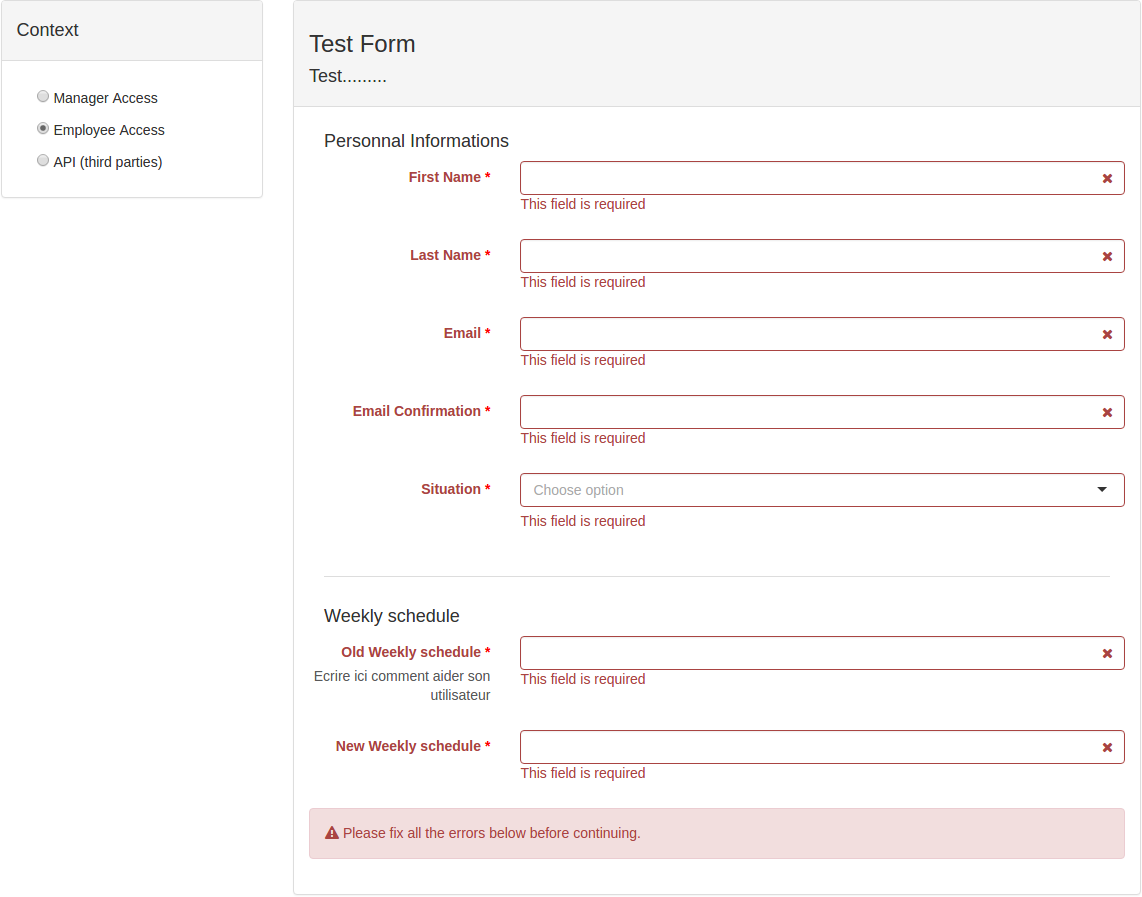
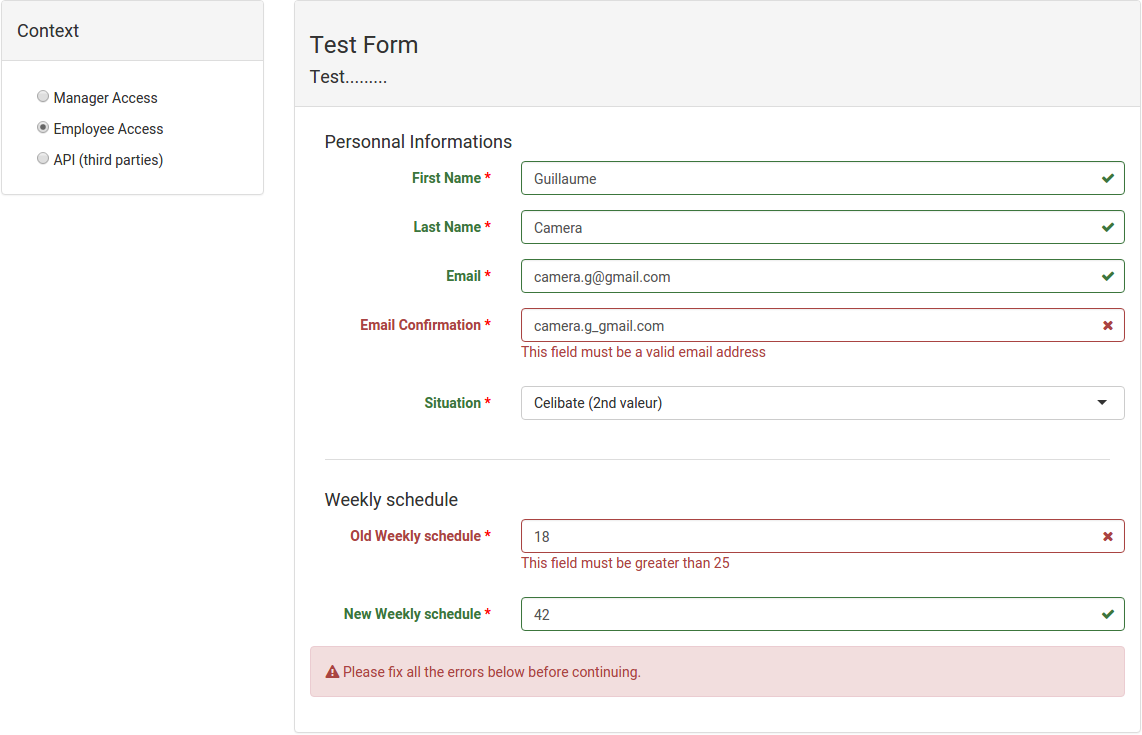
Update slides

diff --git a/src/css/style.scss b/src/css/style.scss
@@ -256,3 +256,19 @@ img[alt=slide-api] {
   height: 400px;
   padding-left: 310px;
 }
+
+img[alt=ui] {
+  position: absolute;
+  top: 150px;
+  max-height: 520px;
+  max-width: 800px;
+  left: 300px;
+}
+
+img[alt=ui2] {
+  position: absolute;
+  top: 200px;
+  max-height: 520px;
+  max-width: 800px;
+  left: 200px;
+}

diff --git a/src/slides.md b/src/slides.md
@@ -382,6 +382,14 @@ template: slide
 # Formidable-UI
 ## Création
 
+![ui](img/ui-builder.png)
+
+---
+template: slide
+
+# Formidable-UI
+## Création
+
 - ### Barre d'outils (champs)
 
 ![slide-tools](img/slide_tools.png)
@@ -480,6 +488,14 @@ template: slide
 # Formidable-UI
 ## Validations Globales (Presets)
 
+![ui2](img/ui-validations.png)
+
+---
+template: slide
+
+# Formidable-UI
+## Validations Globales (Presets)
+
 - ### CRUD sur les presets
 
 - ### Preset => Mini formulaire dynamique
@@ -487,6 +503,14 @@ template: slide
 
 ![slide-preset](img/slide_preset.png)
 
+
+---
+template: slide
+
+# Formidable-UI
+## Preview / Saisie utilisateur
+
+![ui](img/ui-preview.png)
 
 ---
 template: slide
@@ -506,11 +530,25 @@ template: slide
 
 ### sont valides
 
---
-
 ![slide-preview](img/slide_preview1.png)
 
---
+---
+template: slide
+
+# Formidable-UI
+## Preview / Saisie utilisateur
+
+- ### Affichage selon le contexte
+
+<br />
+
+- ### Validations sur les champs
+
+<br />
+
+- ### Vérifier que les saisies
+
+### sont valides
 
 ![slide-preview](img/slide_preview2.png)
 
